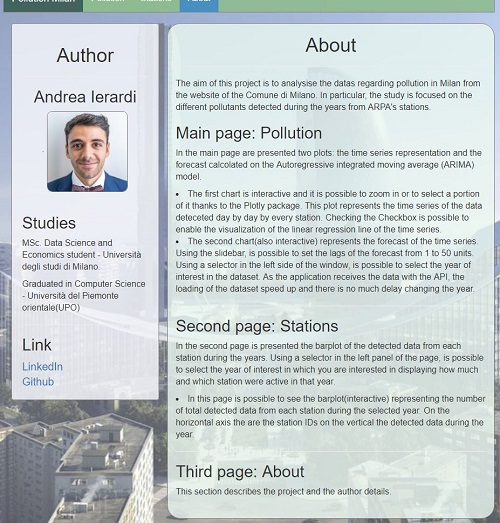
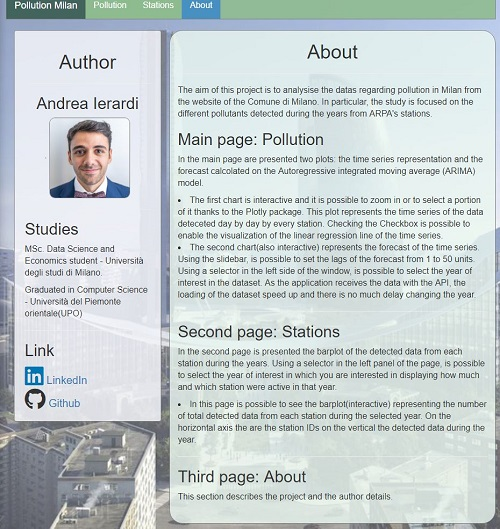
up

Changed region(s): [[0.0, 0.0, 1.0, 1.0], [0.99, 0.9484, 1.0, 0.979]]

diff --git a/inst/pollution/www/style.css b/inst/pollution/www/style.css
@@ -1,4 +1,4 @@
-html, body {  
+html, body {
 font-size:20px;margin: 0; height: 100%;
   background: url(background2.jpg) no-repeat center fixed;
   -webkit-background-size: cover;
@@ -7,7 +7,7 @@ font-size:20px;margin: 0; height: 100%;
   background-size: cover;
                          }
 img {border: 1px solid gray;border-radius: 10px;}
-html*{height:100%;font-family: Arial;overflow:auto;}
+
 p {font-family: Arial;}
 li {font-family: Arial;font-size:16px}
 #cent{text-align:center;} p {font-size:16px;font-family:Arial}
@@ -24,14 +24,11 @@ h1{text-align: center;}
 #side{background-color: rgb(244,245,249,0.85);border:1px solid gray;}
 
 #testa{
-	margin: 0px 0px 0px 0px;
 	background: url(head.png);
   background-attachment: fixed;
-	font-weight: 50;
 	font-family: Arial;
 	position: relative;
 	font-size: 60px;
-/*	color: #05386B; */
 	box-shadow:
 		inset 0 0 0 1px rgba(53,86,129, 0.4),
 		inset 0 0 5px rgba(53,86,129, 0.5),
@@ -40,3 +37,4 @@ h1{text-align: center;}
 	color:#ffffff;
 
 }
+

diff --git a/README.md b/README.md
@@ -7,7 +7,7 @@
 
 ```R
 # first install the R package "devtools" if not installed
-devtools::install_github('Andreaierardi/R-project')
+devtools::install_github('unimi-dse/01a62bb0')
 ```
 
 <h2> Usage</h2>
@@ -16,7 +16,7 @@ devtools::install_github('Andreaierardi/R-project')
 ```R
 require(milanpollution)
 ```
-<p> There are three exported function in the package that are <code> pollution()</code>, <code> restfullAPI()</code> and <code> checkdataset()</code>.</p>
+<p> There are three exported function in the package that are <code> pollution()</code> and <code> restfullAPI()</code>.</p>
 
 <h3> Functions </h3>
 <li><code> pollution()</code></li>
@@ -24,13 +24,12 @@ require(milanpollution)
 <li><code> restfullAPI()</code></li>
 <p> Get the dataset from the Opendata website of the city of Milan using CRAN API. </p>
 
-<li><code> checkdataset()</code></li>
-<p> Check whether and which dataset is already loaded, download and visualise it.</p>
 
 <h2> Dataset </h2>
 <p> The study consists of 3 dataset named "Rilevazione qualità dell'aria" (Air Quality Detection) from year 2017 to 2019. 
 The dataset is imported from the city of Milan website, in particular the <a href= "http://dati.comune.milano.it/"> Opendata Portal</a> using CKAN Application programming interface(API). </p>
 <p> The datasets has 3 fields: </p>
+
 - Date: date of the detected value
 - Pollutant: type of pollutant
 - Value: value of the pollutant
